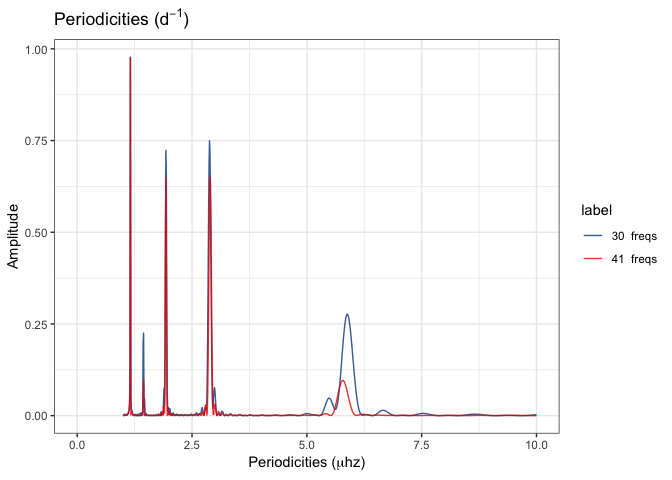
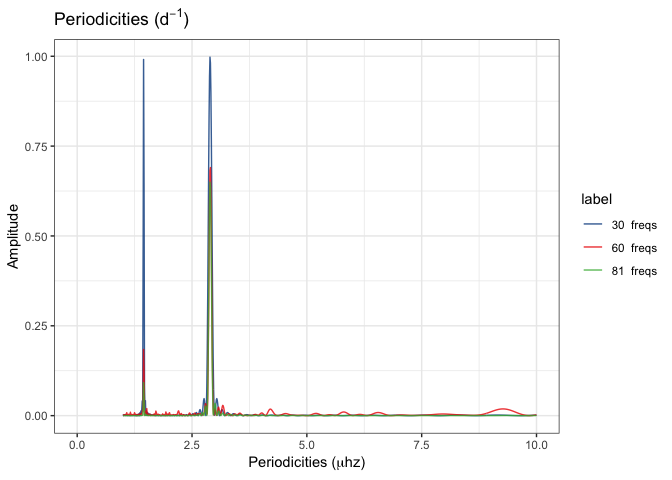
Shynt experiment added with samples

diff --git a/docs/ShynteticExpI.md b/docs/ShynteticExpI.md
@@ -38,14 +38,14 @@ dataFlag = F
 ``` r
 # Generate first pattern
 dt.spectrum <- data.frame(
-  "frequency" = seq(from=0, to=10, by=0.5),
+  "frequency" = seq(from=0, to=10, by=0.25) ,
   "amplitude" = 10
 )
 # Generate second pattern as the biased first
 dt.spectrum.bias <- data.frame(dt.spectrum)
 dt.spectrum.bias$frequency <- dt.spectrum.bias$frequency + 0.3
-dt.spectrum.bias$amplitude <- 5
-
+dt.spectrum.bias$amplitude <- 5 + rnorm(nrow(dt.spectrum.bias),0,1.0)
+#  
 # All together
 dt.spectrum <- rbind(dt.spectrum, dt.spectrum.bias)
 
@@ -94,29 +94,32 @@ result <- process(
 
     ## ::: Debug information :::
     ## 
-    ## Number of frequences to be processed: 42
-    ## Number of frequences after drop the g regimen: 41
-    ## Frequencies: 5.78704, 11.5741, 17.3611, 23.1481, 28.9352, 34.7222, 40.5093, 46.2963, 52.0833, 57.8704, 63.6574, 69.4444, 75.2315, 81.0185, 86.8056, 92.5926, 98.3796, 104.167, 109.954, 115.741, 
-    ## Range: 30, 41, 
+    ## Number of frequences to be processed: 82
+    ## Number of frequences after drop the g regimen: 81
+    ## Frequencies: 2.89352, 5.78704, 8.68056, 11.5741, 14.4676, 17.3611, 20.2546, 23.1481, 26.0417, 28.9352, 31.8287, 34.7222, 37.6157, 40.5093, 43.4028, 46.2963, 49.1898, 52.0833, 54.9769, 57.8704, 
+    ## Range: 30, 60, 81, 
     ##  Iteration over range: 30
-    ##    Frequencies selected: 5.78704, 11.5741, 17.3611, 23.1481, 28.9352, 34.7222, 40.5093, 46.2963, 52.0833, 57.8704, 
+    ##    Frequencies selected: 2.89352, 5.78704, 8.68056, 11.5741, 14.4676, 17.3611, 20.2546, 23.1481, 26.0417, 28.9352, 
     ##    Amplitudes selected: 10, 10, 10, 10, 10, 10, 10, 10, 10, 10, 
-    ##     Dnu: 1.1584
-    ##     Dnu Peak: 1.1584
-    ##     Dnu Guess: 1.15741
+    ##     Dnu: 2.8909
+    ##     Dnu Peak: 2.8909
+    ##     Dnu Guess: 0.964506
     ##     Cross correlation calculated:
-    ##  Iteration over range: 41
-    ##    Frequencies selected: 5.78704, 11.5741, 17.3611, 23.1481, 28.9352, 34.7222, 40.5093, 46.2963, 52.0833, 57.8704, 
+    ##  Iteration over range: 60
+    ##    Frequencies selected: 2.89352, 5.78704, 8.68056, 11.5741, 14.4676, 17.3611, 20.2546, 23.1481, 26.0417, 28.9352, 
+    ##    Amplitudes selected: 10, 10, 10, 10, 10, 10, 10, 10, 10, 10, 
+    ##  Iteration over range: 81
+    ##    Frequencies selected: 2.89352, 5.78704, 8.68056, 11.5741, 14.4676, 17.3611, 20.2546, 23.1481, 26.0417, 28.9352, 
     ##    Amplitudes selected: 10, 10, 10, 10, 10, 10, 10, 10, 10, 10,
 
 #### Main results
 
--   **Dnu** (`result$dnu`) = 1.1584.
--   **DnuGuess** `(result$dnuGuess`) = 1.1574074.
--   **DnuPeak** (`result$dnuPeak`) = 1.1584.
+-   **Dnu** (`result$dnu`) = 2.8909.
+-   **DnuGuess** `(result$dnuGuess`) = 0.9645062.
+-   **DnuPeak** (`result$dnuPeak`) = 2.8909.
 -   **Frequency** (`result$photometry$frequency`) = ...
 -   **Amplitude** (`result$photometry$amplitude`) = ...
--   **Diffs** (`result$diffHistogram$diffs`) = 5.787037, 11.5740741, 17.3611111, 23.1481481, 28.9351852, 34.7222222, 40.5092593, 46.2962963, 52.0833333, 57.8703704, 63.6574074, 69.4444444, 75.2314815, 81.0185185, 86.8055556, 92.5925926, 98.3796296, 104.1666667, 109.9537037, 2.3148148, 3.4722222, 9.2592593, 15.0462963, 20.8333333, 26.6203704...
+-   **Diffs** (`result$diffHistogram$diffs`) = 2.8935185, 5.787037, 8.6805556, 11.5740741, 14.4675926, 17.3611111, 20.2546296, 23.1481481, 26.0416667, 28.9351852, 31.8287037, 34.7222222, 37.6157407, 40.5092593, 43.4027778, 46.2962963, 49.1898148, 52.0833333, 54.9768519, 57.8703704, 60.7638889, 63.6574074, 66.5509259, 69.4444444, 72.337963...
 
 #### Apodization
 
